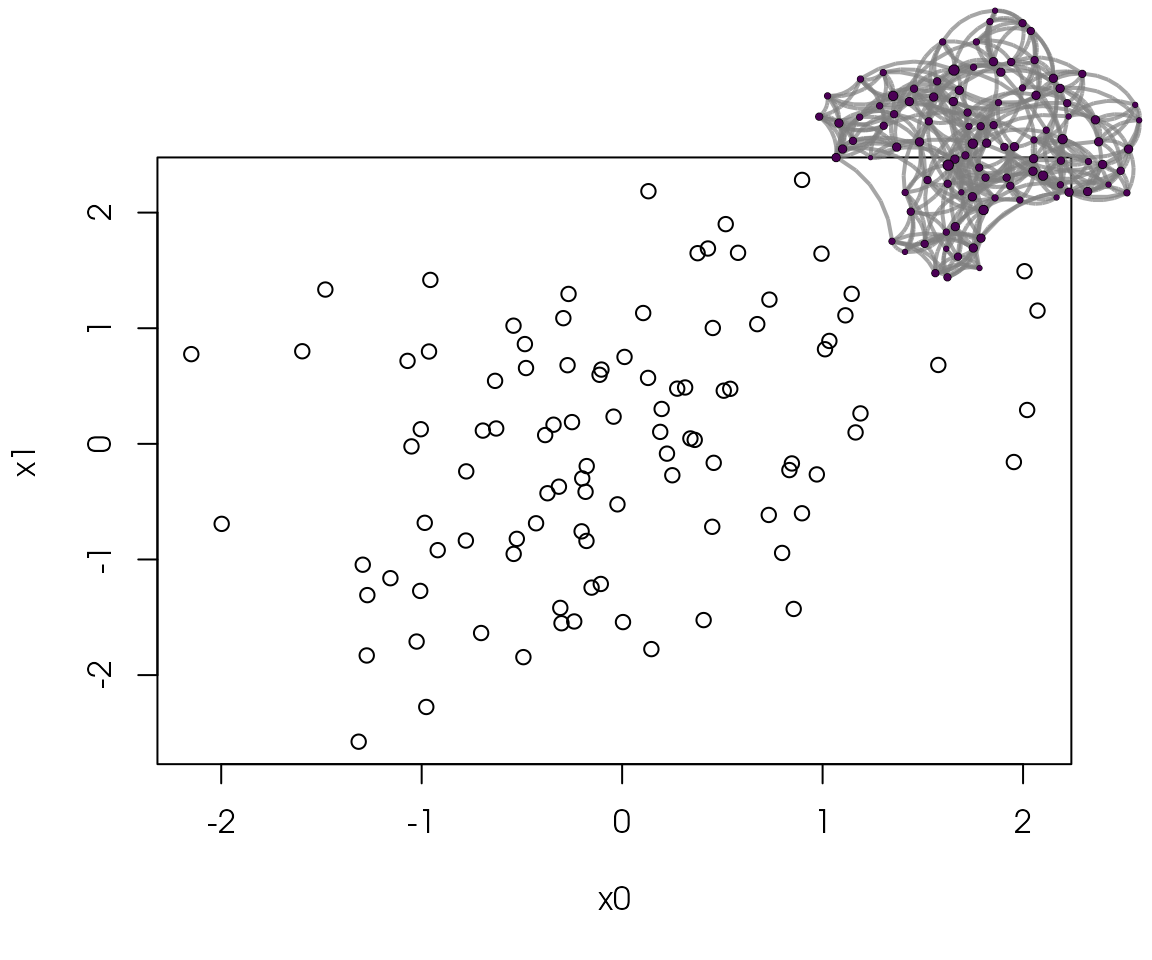
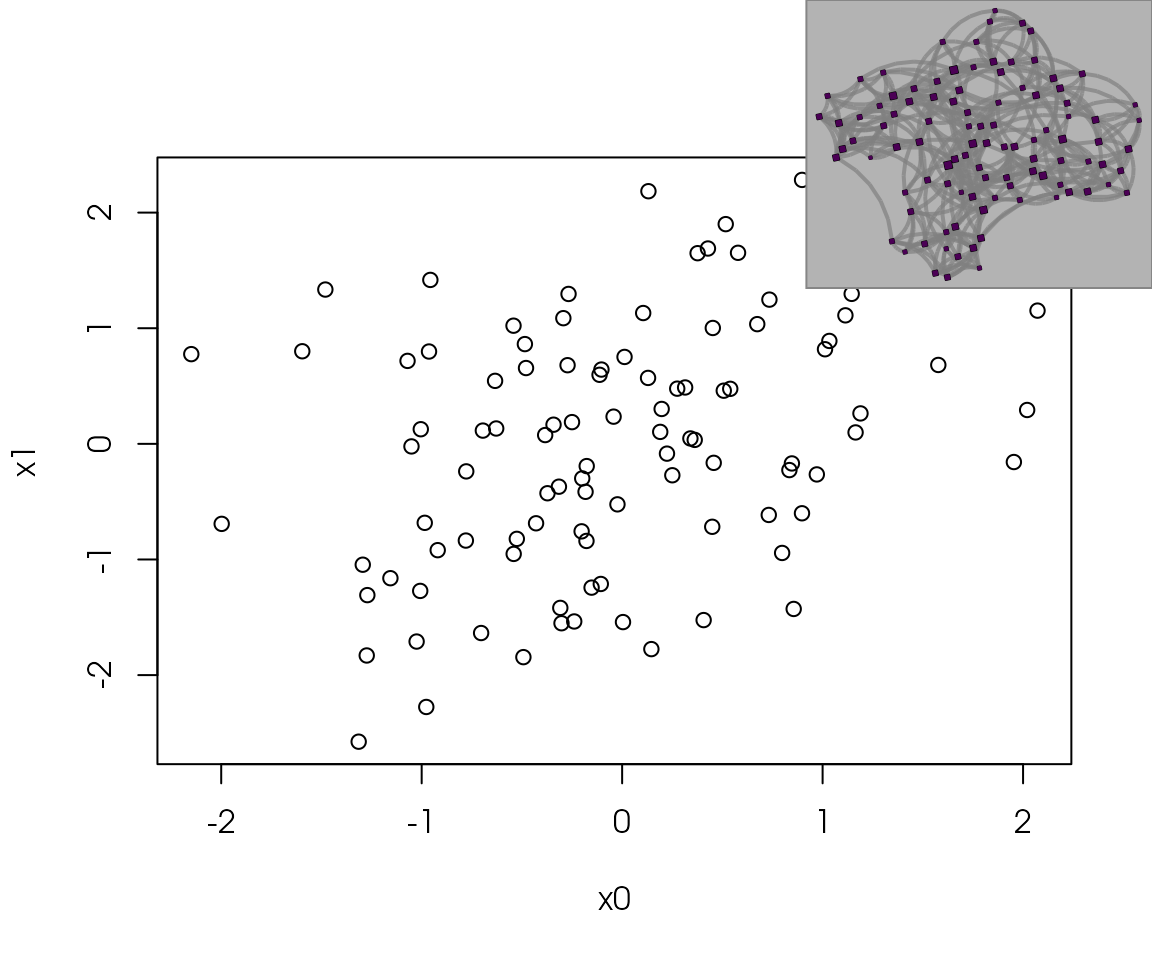
deploy: f0e00f2004da19c380ba6b09ea8fb0b047dc6d89

Changed region(s): [[0.6875, 0.0, 1.0, 0.3125]]

diff --git a/index.html b/index.html
@@ -88,156 +88,11 @@
 
       </header><div class="row">
   <div class="contents col-md-9">
-
-
-<div id="netplot" class="section level1">
-<div class="page-header"><h1 class="hasAnchor">
-<a href="#netplot" class="anchor"></a>netplot</h1></div>
-<p>An alternative graph visualization tool that emphasizes aesthetics, providing default parameters that deliver out-of-the-box lovely visualizations.</p>
-<p>Some features:</p>
-<ol>
-<li>Auto-scaling of vertices using sizes relative to the plotting device.</li>
-<li>Embedded edge color mixer.</li>
-<li>True curved edges drawing.</li>
-<li>User-defined edge curvature.</li>
-<li>Nicer vertex frame color.</li>
-<li>Better use of space-filling the plotting device.</li>
-</ol>
-<p>The package uses the <code>grid</code> plotting system (just like <code>ggplot2</code>).</p>
-<div id="installation" class="section level2">
-<h2 class="hasAnchor">
-<a href="#installation" class="anchor"></a>Installation</h2>
-<p>You can install the released version of netplot from <a href="https://CRAN.R-project.org">CRAN</a> with:</p>
-<div class="sourceCode" id="cb1"><pre class="downlit sourceCode r">
-<code class="sourceCode R"><span class="fu"><a href="https://rdrr.io/r/utils/install.packages.html">install.packages</a></span><span class="op">(</span><span class="st">"netplot"</span><span class="op">)</span></code></pre></div>
-<p>And the development version from <a href="https://github.com/">GitHub</a> with:</p>
-<div class="sourceCode" id="cb2"><pre class="downlit sourceCode r">
-<code class="sourceCode R"><span class="co"># install.packages("devtools")</span>
-<span class="fu">devtools</span><span class="fu">::</span><span class="fu">install_github</span><span class="op">(</span><span class="st">"USCCANA/netplot"</span><span class="op">)</span></code></pre></div>
-</div>
-<div id="example" class="section level2">
-<h2 class="hasAnchor">
-<a href="#example" class="anchor"></a>Example</h2>
-<p>This is a basic example which shows you how to solve a common problem:</p>
-<div class="sourceCode" id="cb3"><pre class="downlit sourceCode r">
-<code class="sourceCode R"><span class="kw"><a href="https://rdrr.io/r/base/library.html">library</a></span><span class="op">(</span><span class="va"><a href="https://igraph.org">igraph</a></span><span class="op">)</span>
-<span class="co">#&gt; </span>
-<span class="co">#&gt; Attaching package: 'igraph'</span>
-<span class="co">#&gt; The following objects are masked from 'package:stats':</span>
-<span class="co">#&gt; </span>
-<span class="co">#&gt;     decompose, spectrum</span>
-<span class="co">#&gt; The following object is masked from 'package:base':</span>
-<span class="co">#&gt; </span>
-<span class="co">#&gt;     union</span>
-<span class="kw"><a href="https://rdrr.io/r/base/library.html">library</a></span><span class="op">(</span><span class="va"><a href="https://github.com/USCCANA/netplot">netplot</a></span><span class="op">)</span>
-<span class="co">#&gt; Loading required package: grid</span>
-<span class="co">#&gt; </span>
-<span class="co">#&gt; Attaching package: 'netplot'</span>
-<span class="co">#&gt; The following object is masked from 'package:igraph':</span>
-<span class="co">#&gt; </span>
-<span class="co">#&gt;     ego</span>
-<span class="fu"><a href="https://rdrr.io/r/base/Random.html">set.seed</a></span><span class="op">(</span><span class="fl">1</span><span class="op">)</span>
-<span class="fu"><a href="https://rdrr.io/r/utils/data.html">data</a></span><span class="op">(</span><span class="st">"UKfaculty"</span>, package <span class="op">=</span> <span class="st">"igraphdata"</span><span class="op">)</span>
-<span class="va">l</span> <span class="op">&lt;-</span> <span class="fu"><a href="https://rdrr.io/pkg/igraph/man/layout_with_fr.html">layout_with_fr</a></span><span class="op">(</span><span class="va">UKfaculty</span><span class="op">)</span>
-<span class="co">#&gt; This graph was created by an old(er) igraph version.</span>
-<span class="co">#&gt;   Call upgrade_graph() on it to use with the current igraph version</span>
-<span class="co">#&gt;   For now we convert it on the fly...</span>
-
-<span class="fu"><a href="https://rdrr.io/r/graphics/plot.default.html">plot</a></span><span class="op">(</span><span class="va">UKfaculty</span>, layout <span class="op">=</span> <span class="va">l</span><span class="op">)</span> <span class="co"># ala igraph</span></code></pre></div>
-<p><img src="reference/figures/README-example-1.png" width="85%"></p>
-<div class="sourceCode" id="cb4"><pre class="downlit sourceCode r">
-<code class="sourceCode R">
-<span class="fu"><a href="https://rdrr.io/pkg/igraph/man/V.html">V</a></span><span class="op">(</span><span class="va">UKfaculty</span><span class="op">)</span><span class="op">$</span><span class="va">ss</span> <span class="op">&lt;-</span> <span class="fu"><a href="https://rdrr.io/r/stats/Uniform.html">runif</a></span><span class="op">(</span><span class="fu"><a href="https://rdrr.io/pkg/igraph/man/gorder.html">vcount</a></span><span class="op">(</span><span class="va">UKfaculty</span><span class="op">)</span><span class="op">)</span>
-<span class="fu"><a href="reference/nplot.html">nplot</a></span><span class="op">(</span><span class="va">UKfaculty</span>, layout <span class="op">=</span> <span class="va">l</span><span class="op">)</span> <span class="co"># ala netplot</span></code></pre></div>
-<p><img src="reference/figures/README-example-2.png" width="85%"></p>
-<div class="sourceCode" id="cb5"><pre class="downlit sourceCode r">
-<code class="sourceCode R"><span class="fu">sna</span><span class="fu">::</span><span class="fu"><a href="https://rdrr.io/pkg/sna/man/gplot.html">gplot</a></span><span class="op">(</span><span class="fu">intergraph</span><span class="fu">::</span><span class="fu"><a href="https://rdrr.io/pkg/intergraph/man/asNetwork.html">asNetwork</a></span><span class="op">(</span><span class="va">UKfaculty</span><span class="op">)</span>, coord<span class="op">=</span><span class="va">l</span><span class="op">)</span></code></pre></div>
-<p><img src="reference/figures/README-example-3.png" width="85%"></p>
-<div id="ukfaculty" class="section level3">
-<h3 class="hasAnchor">
-<a href="#ukfaculty" class="anchor"></a>UKfaculty</h3>
-<div class="sourceCode" id="cb6"><pre class="downlit sourceCode r">
-<code class="sourceCode R"><span class="co"># Random names</span>
-<span class="fu"><a href="https://rdrr.io/r/base/Random.html">set.seed</a></span><span class="op">(</span><span class="fl">1</span><span class="op">)</span>
-<span class="va">nam</span> <span class="op">&lt;-</span> <span class="fu"><a href="https://rdrr.io/r/base/sample.html">sample</a></span><span class="op">(</span><span class="fu">babynames</span><span class="fu">::</span><span class="va">babynames</span><span class="op">$</span><span class="va">name</span>, <span class="fu"><a href="https://rdrr.io/pkg/igraph/man/gorder.html">vcount</a></span><span class="op">(</span><span class="va">UKfaculty</span><span class="op">)</span><span class="op">)</span>
-
-<span class="va">ans</span> <span class="op">&lt;-</span> <span class="fu"><a href="reference/nplot.html">nplot</a></span><span class="op">(</span>
-  <span class="va">UKfaculty</span>,
-  layout                <span class="op">=</span> <span class="va">l</span>,
-  vertex.color          <span class="op">=</span> <span class="op">~</span> <span class="va">Group</span>,
-  vertex.nsides         <span class="op">=</span> <span class="op">~</span> <span class="va">Group</span>,
-  vertex.label          <span class="op">=</span> <span class="va">nam</span>,
-  vertex.size.range     <span class="op">=</span> <span class="fu"><a href="https://rdrr.io/r/base/c.html">c</a></span><span class="op">(</span><span class="fl">.01</span>, <span class="fl">.04</span>, <span class="fl">4</span><span class="op">)</span>,
-  vertex.label.col      <span class="op">=</span>  <span class="st">"black"</span>,
-  vertex.label.fontface <span class="op">=</span> <span class="st">"bold"</span>,
-  bg.col                <span class="op">=</span> <span class="st">"transparent"</span>,
-  vertex.label.show     <span class="op">=</span> <span class="fl">.5</span>,
-  vertex.label.range    <span class="op">=</span> <span class="fu"><a href="https://rdrr.io/r/base/c.html">c</a></span><span class="op">(</span><span class="fl">10</span>, <span class="fl">25</span><span class="op">)</span>,
-  edge.width.range      <span class="op">=</span> <span class="fu"><a href="https://rdrr.io/r/base/c.html">c</a></span><span class="op">(</span><span class="fl">1</span>, <span class="fl">4</span>, <span class="fl">5</span><span class="op">)</span>
-  <span class="op">)</span>
-
-
-<span class="co"># Plot it!</span>
-<span class="va">ans</span></code></pre></div>
-<p><img src="reference/figures/README-unnamed-chunk-1-1.png" width="85%"><img src="reference/figures/README-unnamed-chunk-1-2.png" width="85%"></p>
-<p>Starting version 0.2-0, we can use gradients!</p>
-<div class="sourceCode" id="cb7"><pre class="downlit sourceCode r">
-<code class="sourceCode R"><span class="va">ans</span> |&gt;
-  <span class="fu"><a href="reference/set_gpar.html">set_vertex_gpar</a></span><span class="op">(</span>
-    element <span class="op">=</span> <span class="st">"core"</span>,
-    fill <span class="op">=</span> <span class="fu"><a href="https://rdrr.io/r/base/lapply.html">lapply</a></span><span class="op">(</span><span class="fu"><a href="reference/set_gpar.html">get_vertex_gpar</a></span><span class="op">(</span><span class="va">ans</span>, <span class="st">"frame"</span>, <span class="st">"col"</span><span class="op">)</span><span class="op">$</span><span class="va">col</span>, \<span class="op">(</span><span class="va">i</span><span class="op">)</span> <span class="op">{</span>
-      <span class="fu">radialGradient</span><span class="op">(</span><span class="fu"><a href="https://rdrr.io/r/base/c.html">c</a></span><span class="op">(</span><span class="st">"white"</span>, <span class="va">i</span><span class="op">)</span>, cx1<span class="op">=</span><span class="fl">.8</span>, cy1<span class="op">=</span><span class="fl">.8</span>, r1<span class="op">=</span><span class="fl">0</span><span class="op">)</span>
-      <span class="op">}</span><span class="op">)</span><span class="op">)</span></code></pre></div>
-<p><img src="reference/figures/README-uk-faculty-gradient-1.png" width="85%"><img src="reference/figures/README-uk-faculty-gradient-2.png" width="85%"></p>
-</div>
-<div id="usairports" class="section level3">
-<h3 class="hasAnchor">
-<a href="#usairports" class="anchor"></a>USairports</h3>
-<div class="sourceCode" id="cb8"><pre class="downlit sourceCode r">
-<code class="sourceCode R"><span class="co"># Loading the data</span>
-<span class="fu"><a href="https://rdrr.io/r/utils/data.html">data</a></span><span class="op">(</span><span class="va">USairports</span>, package<span class="op">=</span><span class="st">"igraphdata"</span><span class="op">)</span>
-
-<span class="co"># Generating a layout naively</span>
-<span class="va">layout</span>   <span class="op">&lt;-</span> <span class="fu"><a href="https://rdrr.io/pkg/igraph/man/V.html">V</a></span><span class="op">(</span><span class="va">USairports</span><span class="op">)</span><span class="op">$</span><span class="va">Position</span>
-<span class="co">#&gt; This graph was created by an old(er) igraph version.</span>
-<span class="co">#&gt;   Call upgrade_graph() on it to use with the current igraph version</span>
-<span class="co">#&gt;   For now we convert it on the fly...</span>
-<span class="va">layout</span>   <span class="op">&lt;-</span> <span class="fu"><a href="https://rdrr.io/r/base/do.call.html">do.call</a></span><span class="op">(</span><span class="va">rbind</span>, <span class="fu"><a href="https://rdrr.io/r/base/lapply.html">lapply</a></span><span class="op">(</span><span class="va">layout</span>, <span class="kw">function</span><span class="op">(</span><span class="va">x</span><span class="op">)</span> <span class="fu"><a href="https://rdrr.io/r/base/strsplit.html">strsplit</a></span><span class="op">(</span><span class="va">x</span>, <span class="st">" "</span><span class="op">)</span><span class="op">[[</span><span class="fl">1</span><span class="op">]</span><span class="op">]</span><span class="op">)</span><span class="op">)</span>
-<span class="va">layout</span><span class="op">[</span><span class="op">]</span> <span class="op">&lt;-</span> <span class="fu">stringr</span><span class="fu">::</span><span class="fu"><a href="https://stringr.tidyverse.org/reference/str_remove.html">str_remove</a></span><span class="op">(</span><span class="va">layout</span>, <span class="st">"^[a-zA-Z]+"</span><span class="op">)</span>
-<span class="va">layout</span>   <span class="op">&lt;-</span> <span class="fu"><a href="https://rdrr.io/r/base/matrix.html">matrix</a></span><span class="op">(</span><span class="fu"><a href="https://rdrr.io/r/base/numeric.html">as.numeric</a></span><span class="op">(</span><span class="va">layout</span><span class="op">[</span><span class="op">]</span><span class="op">)</span>, ncol<span class="op">=</span><span class="fl">2</span><span class="op">)</span>
-
-<span class="co"># Some missingness</span>
-<span class="va">layout</span><span class="op">[</span><span class="fu"><a href="https://rdrr.io/r/base/which.html">which</a></span><span class="op">(</span><span class="op">!</span><span class="fu"><a href="https://rdrr.io/r/stats/complete.cases.html">complete.cases</a></span><span class="op">(</span><span class="va">layout</span><span class="op">)</span><span class="op">)</span>, <span class="op">]</span> <span class="op">&lt;-</span> <span class="fu"><a href="https://rdrr.io/r/base/apply.html">apply</a></span><span class="op">(</span><span class="va">layout</span>, <span class="fl">2</span>, <span class="va">mean</span>, na.rm<span class="op">=</span><span class="cn">TRUE</span><span class="op">)</span>
-
-<span class="co"># Have to rotate it (it doesn't matter the origin)</span>
-<span class="va">layout</span> <span class="op">&lt;-</span> <span class="fu">netplot</span><span class="fu">:::</span><span class="fu">rotate</span><span class="op">(</span><span class="va">layout</span>, <span class="fu"><a href="https://rdrr.io/r/base/c.html">c</a></span><span class="op">(</span><span class="fl">0</span>,<span class="fl">0</span><span class="op">)</span>, <span class="va">pi</span><span class="op">/</span><span class="fl">2</span><span class="op">)</span>
-
-<span class="co"># Simplifying the network</span>
-<span class="va">net</span> <span class="op">&lt;-</span> <span class="fu"><a href="https://rdrr.io/pkg/igraph/man/simplify.html">simplify</a></span><span class="op">(</span><span class="va">USairports</span>, edge.attr.comb <span class="op">=</span> <span class="fu"><a href="https://rdrr.io/r/base/list.html">list</a></span><span class="op">(</span>
-  weight <span class="op">=</span> <span class="st">"sum"</span>,
-  name   <span class="op">=</span> <span class="st">"concat"</span>,
-  Passengers <span class="op">=</span> <span class="st">"sum"</span>,
-  <span class="st">"ignore"</span>
-<span class="op">)</span><span class="op">)</span>
-
-<span class="co"># Pretty graph</span>
-<span class="fu"><a href="reference/nplot.html">nplot</a></span><span class="op">(</span>
-  <span class="va">net</span>,
-  layout            <span class="op">=</span> <span class="va">layout</span>,
-  edge.width        <span class="op">=</span> <span class="op">~</span> <span class="va">Passengers</span>,
-  edge.color        <span class="op">=</span> 
-    <span class="op">~</span> <span class="fu"><a href="reference/netplot-formulae.html">ego</a></span><span class="op">(</span>col <span class="op">=</span> <span class="st">"white"</span>, alpha <span class="op">=</span> <span class="fl">0</span><span class="op">)</span> <span class="op">+</span> <span class="fu"><a href="reference/netplot-formulae.html">alter</a></span><span class="op">(</span>col <span class="op">=</span> <span class="st">"yellow"</span>, alpha <span class="op">=</span> <span class="fl">.75</span><span class="op">)</span>,
-  skip.vertex       <span class="op">=</span> <span class="cn">TRUE</span>,
-  skip.arrows       <span class="op">=</span> <span class="cn">TRUE</span>,
-  edge.width.range  <span class="op">=</span> <span class="fu"><a href="https://rdrr.io/r/base/c.html">c</a></span><span class="op">(</span><span class="fl">.75</span>, <span class="fl">4</span>, <span class="fl">4</span><span class="op">)</span>, 
-  bg.col            <span class="op">=</span> <span class="st">"black"</span>,
-  edge.line.breaks  <span class="op">=</span> <span class="fl">10</span>
-  <span class="op">)</span></code></pre></div>
-<p><img src="reference/figures/README-us-airports-1.png" width="85%"></p>
-</div>
-</div>
-</div>
-
+A graph visualization engine that emphasizes on 
+  aesthetics at the same time providing default parameters that yield
+  out-of-the-box-nice visualizations. The package is built on top of
+  'The Grid Graphics Package' and seamlessly work with 'igraph' and 
+  'network' objects.
   </div>
 
   <div class="col-md-3 hidden-xs hidden-sm" id="pkgdown-sidebar">
@@ -267,17 +122,7 @@
 </ul>
 </div>
 
-  <div class="dev-status">
-<h2>Dev status</h2>
-<ul class="list-unstyled">
-<li><a href="https://cran.r-project.org/package=netplot"><img src="https://www.r-pkg.org/badges/version/netplot" alt="CRAN status"></a></li>
-<li><a href="https://cran.r-project.org/package=netplot"><img src="https://cranlogs.r-pkg.org/badges/netplot" alt="CRAN"></a></li>
-<li><a href="https://github.com/USCCANA/netplot/actions/workflows/ci.yml"><img src="https://github.com/USCCANA/netplot/actions/workflows/ci.yml/badge.svg" alt="R"></a></li>
-<li><a href="https://ci.appveyor.com/project/gvegayon/netplot"><img src="https://ci.appveyor.com/api/projects/status/3k2m3oq6o99qcs0r?svg=true" alt="Build status"></a></li>
-<li><a href="https://preventivemedicine.usc.edu"><img src="https://raw.githubusercontent.com/USCbiostats/badges/master/tommy-uscprevmed-badge.svg" alt="USC’s Department of Preventive Medicine"></a></li>
-</ul>
-</div>
-</div>
+  </div>
 </div>
 
 

diff --git a/news/index.html b/news/index.html
@@ -145,10 +145,10 @@
 </h1>
 <ul>
 <li><p>The arguments <code>skip.vertex</code>, <code>skip.edges</code>, and <code>skip.arrows</code> now work as documented.</p></li>
-<li><p>New function <code><a href="../reference/nplot_legend.html">nplot_legend()</a></code> helps adding legends to the figure.</p></li>
+<li><p>New function <code><a href="../reference/nplot_legend.html">nplot_legend()</a></code> helps to add legends to the figure.</p></li>
 <li><p>New <code><a href="../reference/nplot.html">nplot()</a></code> method for matrices.</p></li>
 <li><p>New feature: Gradients.</p></li>
-<li><p>The argument <code>sample.edges</code> now works as expected.</p></li>
+<li><p>The argument <code>sample.edges</code> now work as expected.</p></li>
 <li><p><code>vertex.color</code>, <code>vertex.size</code>, and <code>vertex.nsides</code> now accepts formulas.</p></li>
 <li><p><code>edge.width</code> now accepts formulas.</p></li>
 <li><p>New function: <code><a href="../reference/locate_vertex.html">locate_vertex()</a></code>.</p></li>
